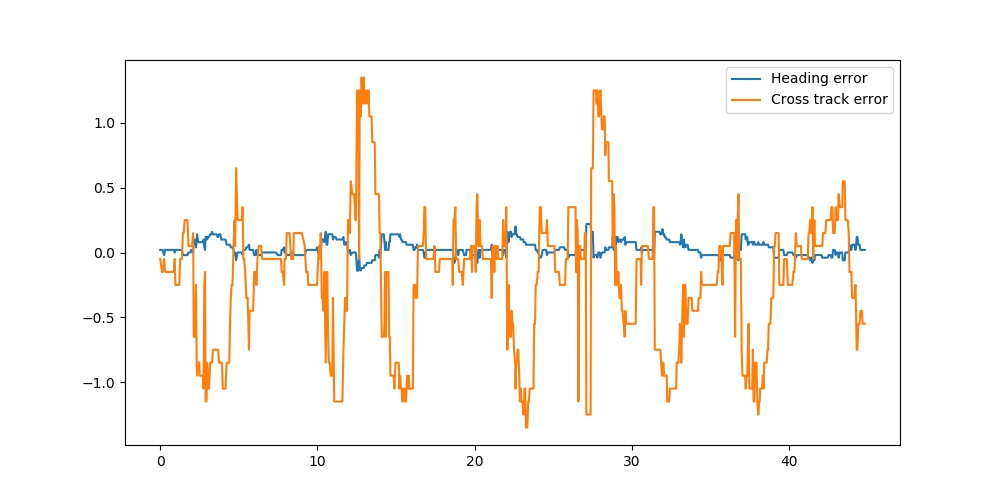
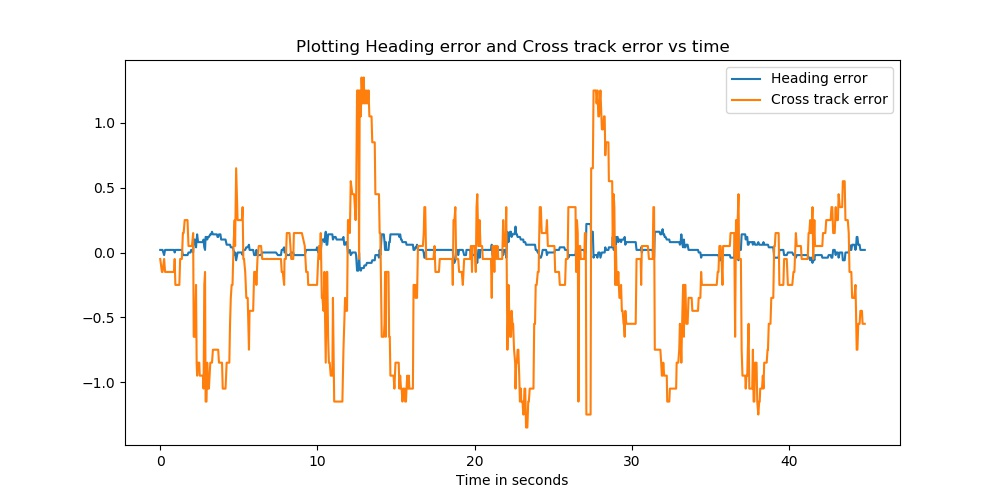
adjusted log plots

Changed region(s): [[0.279, 0.06, 0.744, 0.12], [0.465, 0.93, 0.558, 0.99]]

diff --git a/logs/plot_logs.py b/logs/plot_logs.py
@@ -9,5 +9,7 @@ for file in files:
     errors_df["Time"] -= errors_df["Time"].min()
     plt.plot(errors_df["Time"], errors_df[column1], label=column1)
     plt.plot(errors_df["Time"], errors_df[column2], label=column2)
+    plt.xlabel("Time in seconds")
+    plt.title("Plotting %s and %s vs time"%(column1, column2))
     plt.legend()
     plt.savefig("%s-%s.jpg"%(column1,column2))
